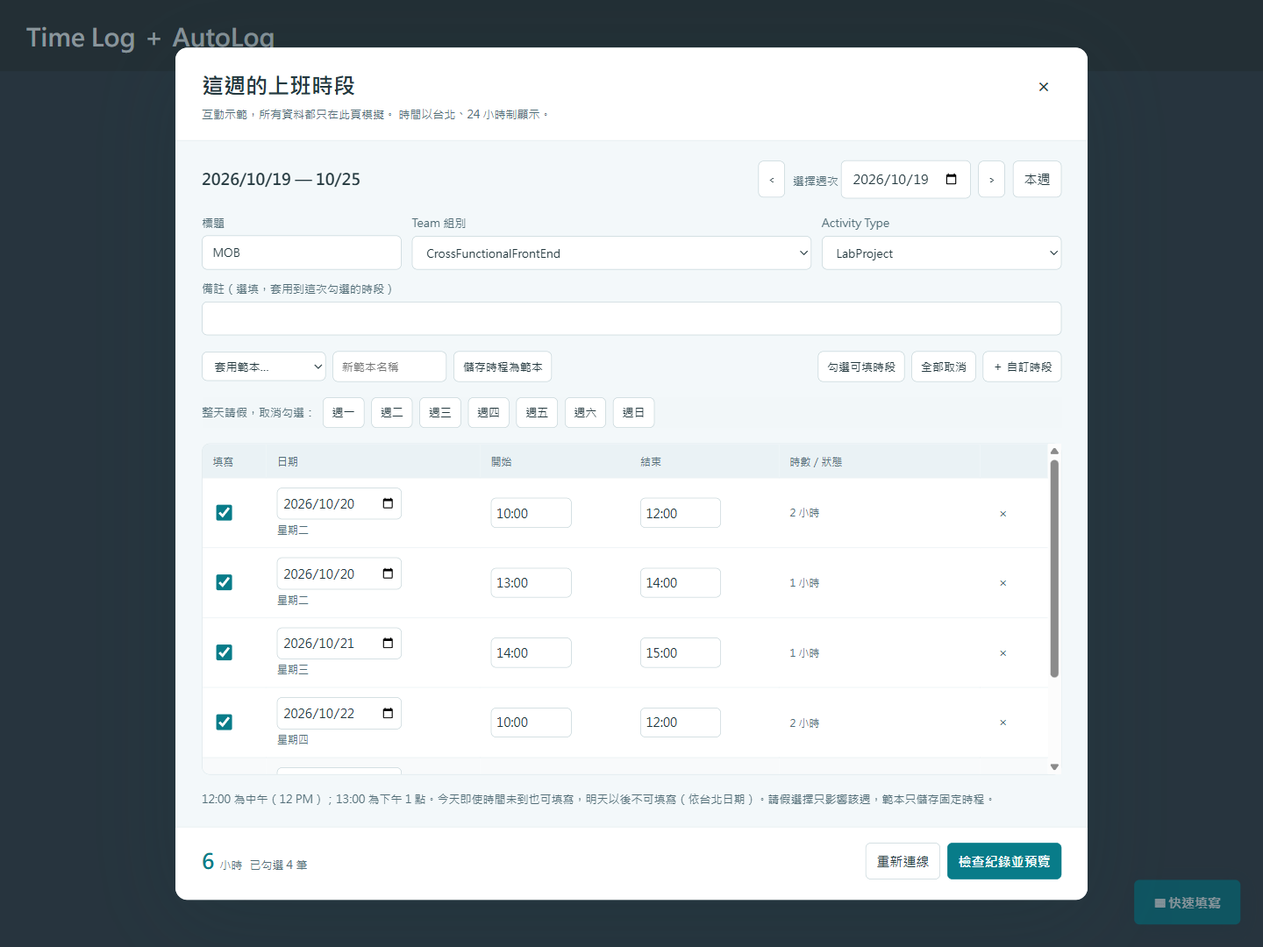
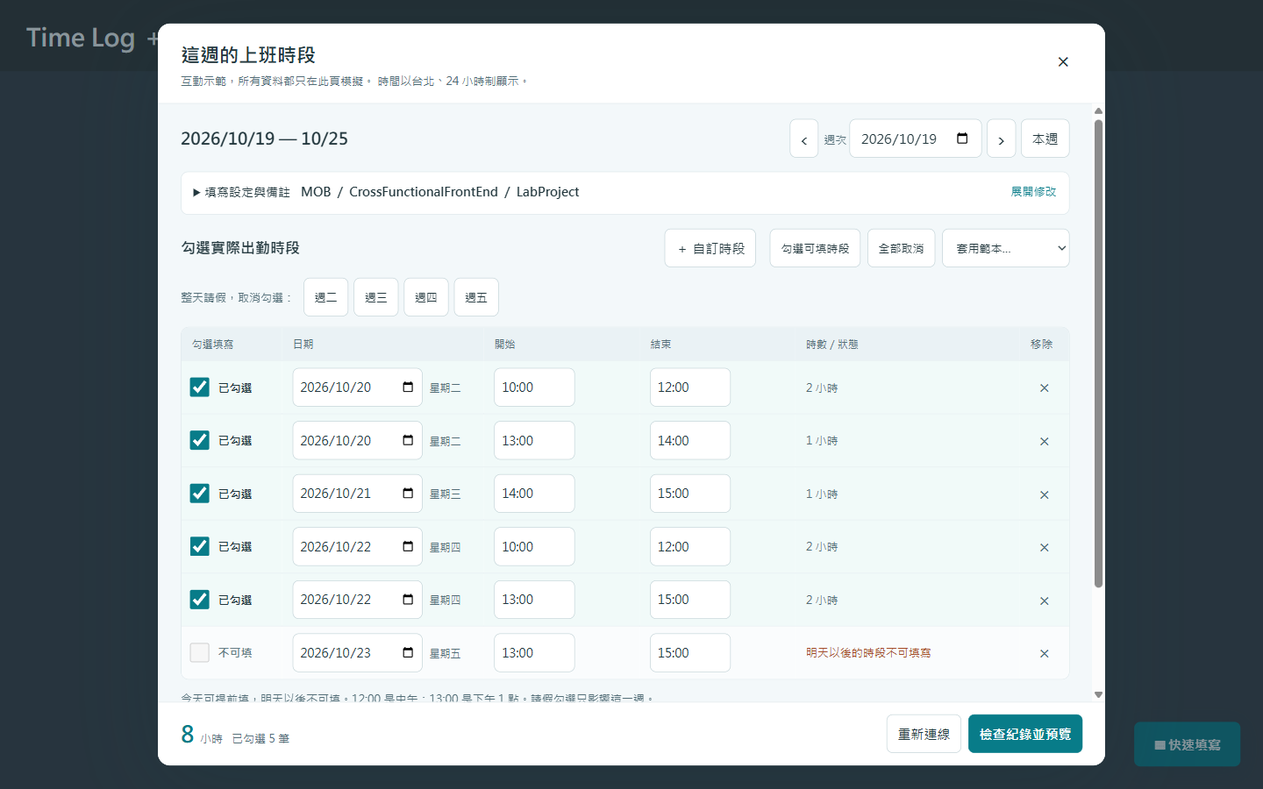
Improve schedule selection layout and preserve edit-to-preview clicks

diff --git a/extension/content.js b/extension/content.js
@@ -15,7 +15,7 @@
   let storageWarning = '';
   function write(key, value) { try { localStorage.setItem(`${namespace()}.${key}`, JSON.stringify(value)); } catch { storageWarning = '瀏覽器無法儲存設定，關閉後可能遺失。'; } }
   let week = C.monday(C.today()), rows = [], teams = [], units = [], review = null, busy = false, message = '', loaded = false;
-  let owner = uid();
+  let owner = uid(), settingsOpen = false, templateOpen = false;
   let settings = read('settings', { title: 'MOB', teamID: '', type: 'LabProject', description: '' });
   let templates = read('templates', {});
   if (!templates || typeof templates !== 'object' || Array.isArray(templates)) templates = {};
@@ -24,28 +24,39 @@
   const style = document.createElement('style');
   style.textContent = `
     :host{all:initial;font-family:"Microsoft JhengHei","Segoe UI",sans-serif;color:#23383e;font-size:15px;line-height:1.5}
-    *{box-sizing:border-box}button,input,select{font:inherit}button{cursor:pointer}button:disabled{cursor:default;opacity:.5}
-    button,input,select{border:1px solid #bbcdd2;border-radius:6px;padding:9px 12px;background:white;color:#23383e}
-    button:hover:not(:disabled){background:#e6f4f5}button:focus-visible,input:focus-visible,select:focus-visible{outline:3px solid #0797a8;outline-offset:2px}
+    *{box-sizing:border-box}button,input,select{font:inherit}button,summary{cursor:pointer}button:disabled{cursor:default;opacity:.5}
+    button,input,select{border:1px solid #bbcdd2;border-radius:7px;padding:9px 12px;background:white;color:#23383e;min-height:44px}
+    button:hover:not(:disabled){background:#e6f4f5}button:focus-visible,input:focus-visible,select:focus-visible,summary:focus-visible{outline:3px solid #0797a8;outline-offset:2px}
     .launch{position:fixed;right:26px;bottom:26px;z-index:2147483646;background:#087c89;color:white;border:0;box-shadow:0 4px 20px #183c4540;padding:14px 22px;font-weight:700}
-    dialog{border:0;border-radius:14px;padding:0;width:min(1040px,calc(100vw - 32px));max-height:90vh;color:inherit;background:#f3f8fa;box-shadow:0 20px 100px #17353d55}
-    dialog[open]{display:flex;flex-direction:column}dialog::backdrop{background:#162d3a80}header{padding:25px 30px 20px;background:white;border-bottom:1px solid #d7e3e7;display:flex;justify-content:space-between;gap:20px;align-items:start;flex-shrink:0}
-    h1{font-size:25px;margin:0 0 4px;font-weight:750}h2{font-size:19px;margin:0 0 10px}p{margin:0}.sub,.hint{color:#526d77;font-size:13px}.x{font-size:22px;line-height:1;padding:8px 12px;border:0}
-    main{padding:22px 30px;display:grid;gap:18px;overflow:auto;min-height:0}.week{display:flex;align-items:center;gap:9px;flex-wrap:wrap}.week strong{font-size:18px;margin-right:auto}.week input{max-width:155px}
-    .settings{display:grid;grid-template-columns:1fr 2fr 1.2fr;gap:12px}label.field{display:grid;gap:5px;font-size:13px;color:#526d77}.field input,.field select{min-width:0;width:100%;color:#23383e}.description{grid-column:1/-1}
-    .toolbar{display:flex;flex-wrap:wrap;gap:8px;align-items:center}.toolbar button,.toolbar select{padding:7px 10px;font-size:13px}.toolbar .spacer{flex:1}.sheet{background:white;border:1px solid #d7e3e7;border-radius:9px;overflow:auto}
-    table{border-collapse:collapse;width:100%;min-width:660px;font-size:14px}th{text-align:left;font-weight:500;font-size:12px;color:#526d77;background:#eaf2f5;padding:10px 12px}td{padding:11px 12px;border-top:1px solid #e3ecef;vertical-align:middle}
-    td input[data-field=start],td input[data-field=end]{width:92px;padding:6px;font-variant-numeric:tabular-nums}td input[type=date]{width:142px;padding:6px}input[type=checkbox]{accent-color:#087c89;width:19px;height:19px;cursor:pointer;vertical-align:middle}.day{display:block;font-size:12px;color:#526d77;margin-top:3px}
-    tr.off{background:#f8fafb;color:#788991}.state{font-size:12px;color:#526d77;max-width:210px}.state.bad{color:#a34a25}.state.good{color:#087c62}.remove{border:0;padding:4px 9px;background:transparent;color:#526d77}
+    dialog{border:0;border-radius:14px;padding:0;margin:auto;width:min(1080px,calc(100vw - 32px));max-width:none;max-height:94dvh;color:inherit;font:inherit;background:#f3f8fa;box-shadow:0 20px 100px #17353d55;overflow:hidden}
+    dialog[open]{display:flex;flex-direction:column}dialog::backdrop{background:#162d3a80}header{padding:19px 26px 16px;background:white;border-bottom:1px solid #d7e3e7;display:flex;justify-content:space-between;gap:16px;align-items:start;flex-shrink:0}
+    h1{font-size:22px;margin:0 0 3px;font-weight:750}h2{font-size:17px;margin:0}p{margin:0}.sub,.hint{color:#526d77;font-size:13px}.x{font-size:24px;line-height:1;padding:8px 12px;border:0;min-width:44px}
+    main{padding:18px 26px;display:block;overflow-y:auto;overflow-x:hidden;min-height:0;scrollbar-gutter:stable}main>*+*{margin-top:16px}
+    .week{display:flex;align-items:center;gap:8px;flex-wrap:wrap}.week strong{font-size:19px;margin-right:auto}.week-controls{display:flex;gap:6px;align-items:center}.week input{width:151px}.week .nav{font-size:22px;padding:3px 12px}.week-label{font-size:13px;color:#526d77}
+    details{border:1px solid #d7e3e7;border-radius:8px;background:white}summary{padding:12px 14px;min-height:48px;font-size:14px;overflow-wrap:anywhere}summary .summary-value{margin-left:12px;font-weight:600}summary .edit-hint{float:right;color:#087c89;font-size:13px;margin-left:10px}.settings{padding:0 14px 16px;display:grid;grid-template-columns:1fr 2fr 1.2fr;gap:12px}label.field{display:grid;gap:5px;font-size:13px;color:#526d77}.field input,.field select{min-width:0;width:100%;color:#23383e}.description{grid-column:1/-1}
+    .schedule-head{display:flex;align-items:center;justify-content:space-between;gap:12px;margin-bottom:12px}.toolbar{display:flex;flex-wrap:wrap;gap:8px;align-items:center;margin-bottom:10px}.toolbar button,.toolbar select{font-size:13px}.toolbar select{max-width:240px}.toolbar .spacer{flex:1}.leave{display:flex;align-items:center;gap:6px;flex-wrap:wrap;margin-bottom:14px}.leave button{font-size:13px;padding:7px 12px}.leave .hint{margin-right:4px}.sheet{background:white;border:1px solid #d7e3e7;border-radius:9px;overflow:hidden;min-height:0}
+    table{border-collapse:collapse;width:100%;font-size:14px}th{text-align:left;font-weight:500;font-size:12px;color:#526d77;background:#eaf2f5;padding:9px 12px}td{padding:8px 12px;border-top:1px solid #e3ecef;vertical-align:middle}tbody tr{cursor:pointer}tbody tr:hover{background:#edf8f8}tbody tr.selected{background:#f1faf9}tbody tr.off{background:#fafcfd;color:#667d86}.select-cell{width:115px;padding:6px 10px}.row-select{display:flex;align-items:center;gap:10px;min-height:48px;cursor:pointer;font-size:13px;font-weight:650}.row-select:has(input:disabled){cursor:default}.row-select input{accent-color:#087c89;width:22px;height:22px;min-height:22px;flex-shrink:0;cursor:inherit;margin:0}.date-cell{width:230px;white-space:nowrap}.day{font-size:12px;color:#526d77;margin-left:8px;display:inline-block}td input[data-field=start],td input[data-field=end]{width:92px;padding:8px;font-variant-numeric:tabular-nums}td input[type=date]{width:148px;padding:7px}.mobile-label{display:none}.state{font-size:13px;color:#526d77;max-width:210px;overflow-wrap:anywhere}.state.bad{color:#a34a25}.state.good{color:#087c62}.remove{border:0;min-width:44px;padding:6px 10px;background:transparent;color:#526d77;font-size:20px}.remove-cell{width:54px;padding:6px}.time-rule{margin-top:12px}.template-tools{margin-top:14px}.template-body{padding:0 14px 14px;display:flex;gap:8px;flex-wrap:wrap}.template-body input{flex:1;min-width:140px}.template-body .hint{width:100%}
     .note{padding:11px 14px;background:#e5f2f5;border-left:3px solid #128f9d;font-size:13px;white-space:pre-line;overflow-wrap:anywhere}.note:empty{display:none}.error{border-color:#bb682f;background:#fff3e8;color:#88431e}
-    footer{padding:18px 30px 23px;display:flex;justify-content:space-between;align-items:center;gap:14px;background:white;border-top:1px solid #d7e3e7;flex-wrap:wrap;flex-shrink:0}.total{font-size:24px;font-weight:750;color:#087c89}.total small{font-size:13px;font-weight:400;color:#526d77}.primary{background:#087c89;color:white;border-color:#087c89;font-weight:650}.primary:hover:not(:disabled){background:#086774}.actions{display:flex;gap:8px}.review{border:2px solid #128f9d;border-radius:8px;padding:16px;background:white}.review ul{padding-left:22px;margin:10px 0}.review li{margin:6px 0}.review .skip{color:#a34a25}.review p{font-size:13px}.review .actions{margin-top:14px;justify-content:flex-end}.count{margin-left:8px;font-size:13px;color:#526d77}
-    .leave{background:#f2f7f9}.template-name{max-width:130px;padding:7px 10px;font-size:13px}
-    @media(max-width:720px){header{padding:20px}main{padding:16px}footer{padding:16px 20px}.settings{grid-template-columns:1fr}.description{grid-column:auto}.week strong{width:100%}dialog{width:calc(100vw - 16px);max-height:95vh}.launch{right:14px;bottom:14px}}
+    footer{padding:14px 26px;display:flex;justify-content:space-between;align-items:center;gap:14px;background:white;border-top:1px solid #d7e3e7;flex-shrink:0}.total{font-size:26px;font-weight:750;color:#087c89}.total small{font-size:13px;font-weight:400;color:#526d77}.primary{background:#087c89;color:white;border-color:#087c89;font-weight:650}.primary:hover:not(:disabled){background:#086774}.actions{display:flex;gap:8px}.review{border:1px solid #128f9d;border-radius:8px;padding:18px;background:white}.review ul{padding-left:22px;margin:14px 0}.review li{padding:8px 0;border-bottom:1px solid #e3ecef;font-variant-numeric:tabular-nums}.review .skip{color:#a34a25}.review p{font-size:13px;margin-top:7px}.count{margin-left:10px;font-size:13px;color:#526d77}
+    @media(min-width:981px){.schedule{display:grid;grid-template-columns:minmax(0,1fr) auto;gap:12px 16px}.schedule-head{grid-column:1;margin:0}.schedule-head .hint{display:none}.toolbar{grid-column:2;margin:0;justify-content:flex-end}.toolbar .spacer{display:none}.toolbar select{max-width:170px}.leave,.sheet,.time-rule,.template-tools,.schedule>.note{grid-column:1/-1;margin:0}}
+    @media(min-width:721px) and (max-width:980px){.date-cell{width:170px}.day{display:block;margin:3px 0 0}.select-cell{width:105px}td,th{padding-left:8px;padding-right:8px}.settings{grid-template-columns:1fr 1fr}.description{grid-column:1/-1}}
+    @media(max-width:720px){header{padding:16px}main{padding:14px}footer{padding:12px 16px;flex-wrap:wrap}.settings{grid-template-columns:1fr}.description{grid-column:auto}.week strong{width:100%}.week-controls{width:100%}.week input{width:145px}.week-label{display:none}dialog{width:calc(100vw - 16px);max-height:96dvh}.launch{right:14px;bottom:14px}summary .summary-value{display:block;margin:5px 0 0}summary .edit-hint{float:none;display:none}.toolbar .spacer{display:none}.toolbar select{max-width:100%;flex:1}.schedule-head{align-items:center}.schedule-head button{font-size:13px;padding:8px}.sheet{border:0;background:transparent;overflow:visible}table,tbody{display:block;width:100%}thead{display:none}tbody tr{display:grid;grid-template-columns:minmax(0,1fr) minmax(0,1fr);gap:10px 14px;position:relative;border:1px solid #d7e3e7;border-radius:9px;padding:12px;margin-bottom:10px;background:white}td{border:0;padding:0;min-width:0}.select-cell{width:auto;grid-column:1/-1;padding:0 44px 0 0}.row-select{min-height:44px}.date-cell{width:auto;grid-column:1/-1;display:flex;gap:10px;align-items:center}.day{display:inline;margin:0}td input[type=date]{width:158px}.time-cell{display:grid;gap:4px}td input[data-field=start],td input[data-field=end]{width:100%;min-width:0}.mobile-label{display:block;font-size:12px;color:#526d77}.state{grid-column:1/-1;max-width:none}.remove-cell{position:absolute;right:6px;top:12px;width:44px}.actions{margin-left:auto}.total{font-size:24px}.count{margin-left:6px}footer .actions{flex-wrap:wrap;justify-content:flex-end}.leave{gap:6px}.leave .hint{width:100%}}
+    @media(max-width:720px){summary .summary-value{white-space:nowrap;overflow:hidden;text-overflow:ellipsis}.week-controls{display:grid;grid-template-columns:44px minmax(0,1fr) 44px auto;gap:4px}.week-controls label{min-width:0}.week-controls input{width:100%;min-width:0;padding:8px 4px}.week-controls .nav{padding:4px;min-width:44px}.week-controls button:last-child{padding:8px}.schedule-head .hint{display:none}}
+    @media(max-width:720px){.schedule{display:flex;flex-direction:column;gap:12px}.schedule-head,.toolbar,.leave,.sheet,.time-rule,.template-tools{margin:0}.schedule-head{order:0}.toolbar{order:1}.sheet{order:2}.leave{order:3}.time-rule{order:4}.template-tools{order:5}.schedule>.note{order:6}.template-body select{width:100%}}
+    @media(max-width:420px){h1{font-size:20px}footer{gap:8px}.actions{gap:6px}.actions button{font-size:13px;padding:8px 10px}.sub{font-size:12px}}
+    @media(max-height:600px){header{padding-top:12px;padding-bottom:10px}header .sub{display:none}footer{padding-top:10px;padding-bottom:10px}main{padding-top:12px;padding-bottom:12px}}
   `;
   root.append(style);
   const launch = document.createElement('button'); launch.className = 'launch'; launch.textContent = '▦ 快速填寫';
   const dialog = document.createElement('dialog'); dialog.setAttribute('aria-label', '每週上班時段快速填寫');
   root.append(launch, dialog);
+  const compactLayout = matchMedia('(max-width:720px)');
+  function positionTemplatePicker() {
+    const picker = dialog.querySelector('#template');
+    const destination = dialog.querySelector(compactLayout.matches ? '.template-body' : '.toolbar');
+    if (picker && destination && picker.parentElement !== destination) destination.append(picker);
+  }
+  compactLayout.addEventListener('change', positionTemplatePicker);
   async function call(op, extra = {}) {
     if (demo) return demo.call(op, { week, rows, settings, ...extra });
     if (uid() !== owner) throw new Error('登入帳號已變更，請重新整理網站');
@@ -60,24 +71,71 @@
   const hours = list => (list.reduce((sum, r) => sum + (C.minutes(r.end) - C.minutes(r.start)), 0) / 60).toLocaleString('zh-TW', { maximumFractionDigits: 2 });
   function render() {
     const previousScroll = dialog.querySelector('main')?.scrollTop || 0;
+    const previousReview = !!dialog.querySelector('.review');
+    const focus = root.activeElement;
+    const focusRow = focus?.closest('[data-id]')?.dataset.id;
+    const focusField = focus?.dataset.field;
+    if (dialog.querySelector('#preferences')) settingsOpen = dialog.querySelector('#preferences').open;
+    if (dialog.querySelector('#templateTools')) templateOpen = dialog.querySelector('#templateTools').open;
     const selected = rows.filter(r => r.selected && !C.validate(r, week));
     const team = teams.find(t => String(t.teamID) === String(settings.teamID));
+    const ready = review?.filter(r => r.ready) || [];
+    const scheduledDays = [1, 2, 3, 4, 5, 6, 0].filter(day => rows.some(r => new Date(r.date + 'T00:00:00Z').getUTCDay() === day));
+    const needsSettings = loaded && (!settings.title?.trim() || !team || !settings.type);
+    const prominentMessage = message.startsWith('錯誤') || message.startsWith('已確認') || busy;
     dialog.innerHTML = `<header><div><h1>這週的上班時段</h1><p class="sub">${demo ? '互動示範，所有資料都只在此頁模擬。' : '依實際出勤勾選，請假時段取消即可。'} 時間以台北、24 小時制顯示。</p></div><button class="x" data-action="close" aria-label="關閉" ${busy ? 'disabled' : ''}>×</button></header>
-      <main><div class="week"><strong>${esc(week.replaceAll('-', '/'))} — ${esc(C.addDays(week, 6).slice(5).replace('-', '/'))}</strong><button data-action="prev" aria-label="上一週">‹</button><label><span class="hint">選擇週次 </span><input aria-label="選擇週次" type="date" id="week" value="${week}"></label><button data-action="next" aria-label="下一週">›</button><button data-action="today">本週</button></div>
-      <div class="settings"><label class="field">標題<input id="title" value="${esc(settings.title)}" maxlength="150"></label><label class="field">Team 組別<select id="team"><option value="">請選擇組別</option>${teams.map(t => `<option value="${esc(t.teamID)}" ${String(t.teamID) === String(settings.teamID) ? 'selected' : ''}>${esc(t.teamName)}</option>`).join('')}</select></label><label class="field">Activity Type<select id="type"><option value="">請選擇類型</option>${typeList().map(a => `<option ${settings.type === a.name ? 'selected' : ''} value="${esc(a.name)}">${esc(a.name)}</option>`).join('')}</select></label><label class="field description">備註（選填，套用到這次勾選的時段）<input id="description" value="${esc(settings.description)}" maxlength="2000"></label></div>
-      <div class="toolbar"><select id="template" aria-label="選擇範本"><option value="">套用範本…</option><option value="__default">我的固定 10 小時</option>${Object.keys(templates).map(name => `<option value="${esc(name)}">${esc(name)}</option>`).join('')}</select><input class="template-name" id="templateName" placeholder="新範本名稱" aria-label="新範本名稱" maxlength="40"><button data-action="saveTemplate">儲存時程為範本</button><span class="spacer"></span><button data-action="all">勾選可填時段</button><button data-action="none">全部取消</button><button data-action="add">＋ 自訂時段</button></div>
-      <div class="toolbar leave"><span class="hint">整天請假，取消勾選：</span>${[1,2,3,4,5,6,0].map(day => `<button data-action="leave" data-day="${day}">週${'日一二三四五六'[day]}</button>`).join('')}</div>
-      <div class="sheet"><table><thead><tr><th>填寫</th><th>日期</th><th>開始</th><th>結束</th><th>時數／狀態</th><th></th></tr></thead><tbody>${rows.map(r => {
+      <main><div class="week"><strong>${esc(week.replaceAll('-', '/'))} — ${esc(C.addDays(week, 6).slice(5).replace('-', '/'))}</strong><div class="week-controls"><button class="nav" data-action="prev" aria-label="上一週">‹</button><label><span class="week-label">週次 </span><input aria-label="選擇週次" type="date" id="week" value="${week}"></label><button class="nav" data-action="next" aria-label="下一週">›</button><button data-action="today">本週</button></div></div>
+      <details id="preferences" ${settingsOpen || needsSettings ? 'open' : ''}><summary><span>填寫設定與備註</span><span class="edit-hint">展開修改</span><span class="summary-value">${esc(settings.title || '請填標題')} ／ ${esc(team?.teamName || '請選擇組別')} ／ ${esc(settings.type || '請選擇類型')}${settings.description ? '（含備註）' : ''}</span></summary><div class="settings"><label class="field">標題<input id="title" value="${esc(settings.title)}" maxlength="150"></label><label class="field">Team 組別<select id="team"><option value="">請選擇組別</option>${teams.map(t => `<option value="${esc(t.teamID)}" ${String(t.teamID) === String(settings.teamID) ? 'selected' : ''}>${esc(t.teamName)}</option>`).join('')}</select></label><label class="field">Activity Type<select id="type"><option value="">請選擇類型</option>${typeList().map(a => `<option ${settings.type === a.name ? 'selected' : ''} value="${esc(a.name)}">${esc(a.name)}</option>`).join('')}</select></label><label class="field description">備註（選填，套用到這次勾選的時段）<input id="description" value="${esc(settings.description)}" maxlength="2000"></label></div></details>
+      ${prominentMessage && message ? `<div class="note ${message.startsWith('錯誤') ? 'error' : ''}" role="status" aria-live="polite">${esc(message)}</div>` : ''}
+      ${review ? `<section class="review" aria-label="送出前預覽"><h2>確認這次要填寫的紀錄</h2><p>${esc(settings.title)} ／ ${esc(team?.teamName)} ／ ${esc(settings.type)}${settings.description ? ` ／ 備註：${esc(settings.description)}` : ''}</p><ul>${review.map(r => `<li class="${r.ready ? '' : 'skip'}">${esc(r.date)} ${esc(weekday(r.date))} ${r.start}–${r.end}　${r.ready ? '可送出' : '略過：' + esc(r.reason)}</li>`).join('')}</ul><p>將新增 ${ready.length} 筆，共 ${hours(ready)} 小時。送出時會再次查核現有紀錄。</p></section>` : `
+      <section class="schedule" aria-label="時段選擇"><div class="schedule-head"><div><h2>勾選實際出勤時段</h2><p class="hint">可點勾選區或整列空白處切換。</p></div><button data-action="add">＋ 自訂時段</button></div>
+      <div class="toolbar"><button data-action="all">勾選可填時段</button><button data-action="none">全部取消</button><span class="spacer"></span><select id="template" aria-label="選擇範本"><option value="">套用範本…</option><option value="__default">我的固定 10 小時</option>${Object.keys(templates).map(name => `<option value="${esc(name)}">${esc(name)}</option>`).join('')}</select></div>
+      <div class="leave"><span class="hint">整天請假，取消勾選：</span>${[1,2,3,4,5,6,0].map(day => `<button data-action="leave" data-day="${day}" ${scheduledDays.includes(day) ? '' : 'hidden'}>週${'日一二三四五六'[day]}</button>`).join('')}</div>
+      <div class="sheet"><table aria-label="每週出勤時段"><thead><tr><th scope="col">勾選填寫</th><th scope="col">日期</th><th scope="col">開始</th><th scope="col">結束</th><th scope="col">時數／狀態</th><th scope="col"><span class="hint">移除</span></th></tr></thead><tbody>${rows.map(r => {
         const invalid = C.validate(r, week); const done = r.result === '已送出並確認';
-        return `<tr class="${!r.selected ? 'off' : ''}" data-id="${esc(r.id)}"><td><input aria-label="選取 ${esc(r.date)} ${esc(r.start)}" data-field="selected" type="checkbox" ${r.selected ? 'checked' : ''} ${invalid || done ? 'disabled' : ''}></td><td><input aria-label="日期" data-field="date" type="date" min="${week}" max="${C.addDays(week, 6)}" value="${esc(r.date)}"><span class="day">${esc(weekday(r.date))}</span></td><td><input aria-label="開始時間" data-field="start" type="text" inputmode="numeric" placeholder="HH:mm" maxlength="5" value="${esc(r.start)}"></td><td><input aria-label="結束時間" data-field="end" type="text" inputmode="numeric" placeholder="HH:mm" maxlength="5" value="${esc(r.end)}"></td><td class="state ${r.result ? done ? 'good' : 'bad' : invalid ? 'bad' : ''}">${esc(r.result || invalid || `${hours([r])} 小時`)}</td><td><button class="remove" data-action="remove" aria-label="移除此時段">×</button></td></tr>`;
+        return `<tr class="${r.selected && !invalid ? 'selected' : 'off'}" data-id="${esc(r.id)}"><td class="select-cell"><label class="row-select"><input aria-label="選取 ${esc(r.date)} ${esc(r.start)}" aria-describedby="state-${esc(r.id)}" data-field="selected" type="checkbox" ${r.selected ? 'checked' : ''} ${invalid || done ? 'disabled' : ''}><span>${done ? '已完成' : invalid ? '不可填' : r.selected ? '已勾選' : '未勾選'}</span></label></td><td class="date-cell"><input aria-label="日期" data-field="date" type="date" min="${week}" max="${C.addDays(week, 6)}" value="${esc(r.date)}"><span class="day">${esc(weekday(r.date))}</span></td><td class="time-cell"><span class="mobile-label">開始時間</span><input aria-label="開始時間" data-field="start" type="text" inputmode="numeric" placeholder="HH:mm" maxlength="5" value="${esc(r.start)}"></td><td class="time-cell"><span class="mobile-label">結束時間</span><input aria-label="結束時間" data-field="end" type="text" inputmode="numeric" placeholder="HH:mm" maxlength="5" value="${esc(r.end)}"></td><td id="state-${esc(r.id)}" class="state ${r.result ? done ? 'good' : 'bad' : invalid ? 'bad' : ''}">${esc(r.result || invalid || `${hours([r])} 小時`)}</td><td class="remove-cell"><button class="remove" data-action="remove" aria-label="移除此時段">×</button></td></tr>`;
       }).join('')}</tbody></table></div>
-      <p class="hint">12:00 為中午（12 PM）；13:00 為下午 1 點。今天即使時間未到也可填寫，明天以後不可填寫（依台北日期）。請假選擇只影響該週，範本只儲存固定時程。</p>
-      <div class="note ${message.startsWith('錯誤') ? 'error' : ''}" role="status" aria-live="polite">${esc(message || storageWarning)}</div>
-      ${review ? `<section class="review"><h2>確認這次要填寫的紀錄</h2><p>${esc(settings.title)} ／ ${esc(team?.teamName)} ／ ${esc(settings.type)}${settings.description ? ` ／ 備註：${esc(settings.description)}` : ''}</p><ul>${review.map(r => `<li class="${r.ready ? '' : 'skip'}">${esc(r.date)} ${esc(weekday(r.date))} ${r.start}–${r.end}　${r.ready ? '可送出' : '略過：' + esc(r.reason)}</li>`).join('')}</ul><p>將新增 ${review.filter(r => r.ready).length} 筆，共 ${hours(review.filter(r => r.ready))} 小時。送出時會再次查核現有紀錄。</p><div class="actions"><button data-action="back">返回修改</button><button class="primary" data-action="submit" ${!review.some(r => r.ready) ? 'disabled' : ''}>確認送出 ${review.filter(r => r.ready).length} 筆</button></div></section>` : ''}
-      </main><footer><div><span class="total">${hours(selected)} <small>小時</small></span><span class="count">已勾選 ${selected.length} 筆</span></div><div class="actions"><button data-action="reload">重新連線</button><button class="primary" data-action="review" ${!loaded || !selected.length || !settings.title?.trim() || !settings.teamID || !settings.type ? 'disabled' : ''}>${busy ? '處理中…' : '檢查紀錄並預覽'}</button></div></footer>`;
-    dialog.querySelector('main').scrollTop = previousScroll;
-    if (review && !busy) dialog.querySelector('.review').scrollIntoView({ block: 'nearest' });
+      ${rows.length ? '' : '<p class="note">這週還沒有時段，可套用固定範本或新增自訂時段。</p>'}
+      <p class="hint time-rule">今天可提前填，明天以後不可填。12:00 是中午；13:00 是下午 1 點。請假勾選只影響這一週。</p>
+      <details id="templateTools" class="template-tools" ${templateOpen ? 'open' : ''}><summary>套用或儲存時程範本</summary><div class="template-body"><input id="templateName" placeholder="新範本名稱" aria-label="新範本名稱" maxlength="40"><button data-action="saveTemplate">儲存時程為範本</button><p class="hint">儲存上方所有時段，不包含當週的請假勾選。</p></div></details></section>`}
+      ${!prominentMessage && (message || storageWarning) ? `<div class="note" role="status" aria-live="polite">${esc(message || storageWarning)}</div>` : ''}
+      </main><footer><div><span class="total">${hours(review ? ready : selected)} <small>小時</small></span><span class="count">${review ? '將新增' : '已勾選'} ${review ? ready.length : selected.length} 筆</span></div><div class="actions">${review ? `<button data-action="back">返回修改</button><button class="primary" data-action="submit" ${!ready.length ? 'disabled' : ''}>${busy ? '處理中…' : `確認送出 ${ready.length} 筆`}</button>` : `<button data-action="reload">重新連線</button><button class="primary" data-action="review" ${!loaded || !selected.length || !settings.title?.trim() || !settings.teamID || !settings.type ? 'disabled' : ''}>${busy ? '處理中…' : '檢查紀錄並預覽'}</button>`}</div></footer>`;
+    positionTemplatePicker();
+    dialog.querySelector('main').scrollTop = previousReview !== !!review ? 0 : previousScroll;
     if (busy) dialog.querySelectorAll('button,input,select').forEach(el => el.disabled = true);
+    else if (focusRow && focusField) {
+      const row = Array.from(dialog.querySelectorAll('[data-id]')).find(el => el.dataset.id === focusRow);
+      const input = row?.querySelector(`[data-field="${focusField}"]`);
+      if (input && !input.disabled) input.focus({ preventScroll: true });
+    }
+  }
+  // Keep inputs and action buttons mounted when an edit blurs. Replacing the
+  // dialog here would swallow the user's following click on Preview or Add.
+  function refreshFeedback() {
+    for (const tr of dialog.querySelectorAll('tbody tr')) {
+      const row = rows.find(r => r.id === tr.dataset.id);
+      const invalid = C.validate(row, week), done = row.result === '已送出並確認';
+      tr.className = row.selected && !invalid ? 'selected' : 'off';
+      const checkbox = tr.querySelector('[data-field="selected"]');
+      checkbox.checked = row.selected;
+      checkbox.disabled = !!invalid || done;
+      checkbox.setAttribute('aria-label', `選取 ${row.date} ${row.start}`);
+      tr.querySelector('.row-select span').textContent = done ? '已完成' : invalid ? '不可填' : row.selected ? '已勾選' : '未勾選';
+      tr.querySelector('.day').textContent = C.validDate(row.date) ? weekday(row.date) : '請選擇日期';
+      const state = tr.querySelector('.state');
+      state.textContent = row.result || invalid || `${hours([row])} 小時`;
+      state.className = `state ${row.result ? done ? 'good' : 'bad' : invalid ? 'bad' : ''}`;
+    }
+    for (const button of dialog.querySelectorAll('[data-action="leave"]')) {
+      button.hidden = !rows.some(row => new Date(row.date + 'T00:00:00Z').getUTCDay() === Number(button.dataset.day));
+    }
+    const team = teams.find(t => String(t.teamID) === String(settings.teamID));
+    dialog.querySelector('.summary-value').textContent = `${settings.title || '請填標題'} ／ ${team?.teamName || '請選擇組別'} ／ ${settings.type || '請選擇類型'}${settings.description ? '（含備註）' : ''}`;
+    const selected = rows.filter(r => r.selected && !C.validate(r, week));
+    dialog.querySelector('.total').innerHTML = `${hours(selected)} <small>小時</small>`;
+    dialog.querySelector('.count').textContent = `已勾選 ${selected.length} 筆`;
+    const previewButton = dialog.querySelector('[data-action="review"]');
+    if (previewButton) previewButton.disabled = !loaded || !selected.length || !settings.title?.trim() || !settings.teamID || !settings.type;
   }
   async function connect() {
     busy = true; message = '正在確認登入、讀取組別與類型…'; render();
@@ -106,10 +164,19 @@
     else if (el.id === 'template' && el.value) {
       try { rows = C.expand(C.template(el.value === '__default' ? C.defaults : templates[el.value]), week); message = '已套用範本，請依這週實際出勤勾選。'; } catch (error) { message = '錯誤：' + error.message; }
     } else return;
-    invalidate(); render();
+    const keepMounted = !dialog.querySelector('.review') && ((tr && el.dataset.field !== 'selected') || ['title', 'description'].includes(el.id));
+    invalidate();
+    if (keepMounted) refreshFeedback(); else render();
   });
   dialog.addEventListener('click', async event => {
-    const button = event.target.closest('button[data-action]'); if (!button || busy) return;
+    if (busy) { event.preventDefault(); return; }
+    const clickedRow = event.target.closest('[data-id]');
+    if (clickedRow && !event.target.closest('button,input,label,select,.time-cell,.date-cell')) {
+      const checkbox = clickedRow.querySelector('input[type="checkbox"]');
+      if (!checkbox.disabled) checkbox.click();
+      return;
+    }
+    const button = event.target.closest('button[data-action]'); if (!button) return;
     const action = button.dataset.action;
     if (action === 'close') { dialog.close(); launch.focus(); return; }
     if (action === 'reload') { review = null; await connect(); return; }

diff --git a/README.md b/README.md
@@ -18,6 +18,13 @@
 4. 點「檢查紀錄並預覽」，確認新增明細與總時數，再按「確認送出」。
 5. 每筆新增後會再讀取紀錄確認。回到學校左側 **Personal → History**，設定日期範圍查閱；原頁沒有更新時重新整理。
 
+## 介面操作
+
+- 上方「填寫設定與備註」預設顯示目前設定摘要，點開即可改標題、組別、類型與備註；缺少必要設定時會自動展開。
+- 勾選區放大為至少 44px 高，也可以點每列的狀態或空白處切換；點日期、時間或移除按鈕時不會誤切換。
+- 清單完整展開，只捲動面板的主內容，底部總時數與操作始終可見。預覽時底部會改為「返回修改／確認送出」。
+- 窄螢幕將每筆時段改成直向排列，不必左右滑動。整天取消與範本管理放在清單下方，讓勾選優先顯示；範本選單可從「套用或儲存時程範本」展開。
+
 固定時程共六筆、十小時：
 
 | 星期 | 時段 | 小時 |
@@ -31,7 +38,7 @@
 
 ## 自訂與範本
 
-- 調整時段後輸入範本名稱，按「儲存時程為範本」。同名會覆寫。範本儲存所有列出的固定時段，不儲存當週請假勾選，也不儲存 Team／標題。
+- 調整時段後展開「套用或儲存時程範本」，輸入名稱，按「儲存時程為範本」。同名會覆寫。範本儲存所有列出的固定時段，不儲存當週請假勾選，也不儲存 Team／標題。
 - 從「套用範本」選取名稱即可重新產生當週日期；會取代當週目前時段與勾選。「我的固定 10 小時」可還原原始時程。
 - 當週時段、勾選、範本與上次組別設定按帳號存於此瀏覽器的網站本機儲存區。換週會保留各週草稿。清除網站資料會移除這些設定。
 

diff --git a/DESIGN.md b/DESIGN.md
@@ -1,0 +1,13 @@
+# AutoLog 面板設計
+
+主要工作是核對六筆上班時段並排除請假，因此時段清單應最先可見；已記住的標題、組別、類型與範本管理可展開修改。
+
+- 色彩：文字 `#23383e`、次要文字 `#526d77`、面板底 `#f3f8fa`、紙白 `#ffffff`、勾選與主要操作 `#087c89`、警示 `#a34a25`。沿用原學校網站的青綠操作色。
+- 字體：Microsoft JhengHei／Segoe UI，主要內容 15px，時段採等寬數字，標題 22px。
+- 配置：左對齊的週次與可展開設定摘要 → 快速選取與整天取消 → 完整時段清單 → 固定底部總時數與下一步。
+- 捲動：只有主內容垂直捲動。清單隨內容長高，不分配會壓縮成單列的高度；底部總時數與確認操作保持可見。
+- 操作：每筆勾選至少 44px 點擊範圍，也可點列內空白處切換。修改日期或時間時不切換勾選。手機將每筆轉為直向排列，避免左右滑動才能看見時間或狀態。
+- 窄螢幕讓清單優先，將整天取消與範本管理放在清單之後；長設定摘要單行省略，展開後可閱讀完整內容。
+- 預覽：固定底部切換成「返回修改／確認送出」，清楚區分勾選與送出階段。
+
+檢視原配置後，移除佔據半個視窗的常駐設定與範本名稱欄；保留清楚的設定摘要，並直接展示實際時段。這次的重點是擴大可核對清單的空間與點擊範圍。

diff --git a/TESTING.md b/TESTING.md
@@ -9,6 +9,10 @@
 - 1440×1080 桌面、390×844 窄螢幕檢查，確認對話框與固定底部操作區可見；窄螢幕可預覽星期五請假後的 5 筆 8 小時。
 - Windows ZIP 打包完成。
 - v1.0.1 面板操作確認：當天 `23:00–23:59` 可勾選，改成明天後禁止勾選；此規則同時套用於預覽與背景送出驗證。
+- v1.1.0：桌面清單六筆總高度約 401px，沒有清單內部的垂直捲動；在 1440×900 視窗可直接核對六筆。
+- v1.1.0：實際檢查 1440×900、1024×600、768×1024、390×844、320×568，主內容沒有水平溢出，底部操作仍在視窗內；清單保持完整高度，較矮視窗透過主內容捲動查看。
+- v1.1.0：實際點擊 48px 桌面勾選區與列內狀態、用空白鍵連續切換且保留焦點；驗證整天取消、設定摘要、範本儲存與套用、預覽固定底部確認、模擬六筆送出與再次填寫去重。
+- v1.1.0：修改時間後直接點一次預覽可成功，確認預覽包含更新後時間，避免欄位失焦時重繪吃掉下一次點擊。
 
 截圖：`preview/desktop.png`、`preview/mobile.png`。
 

diff --git a/CHANGELOG.md b/CHANGELOG.md
@@ -1,0 +1,18 @@
+# 版本紀錄
+
+## 1.1.0
+
+- 時段清單完整展開，取消清單內部的垂直捲軸，避免視窗高度不足時被壓成單列。
+- 已記住的填寫設定與範本管理可收合；桌面將快速操作放在同一行，讓時段優先顯示。
+- 勾選區至少 44px 高，支援點列內空白處與鍵盤空白鍵切換，切換後保留焦點。
+- 窄螢幕將每筆時段直向排列，減少水平滑動；底部總時數與送出操作固定可見。
+- 預覽與勾選分成不同畫面，底部清楚切換「返回修改／確認送出」。
+- 修正修改時間後第一次點預覽沒有反應的問題。
+
+## 1.0.1
+
+- 今天與過去的時段可填寫，今天即使時間未到也可填；依台北日期擋住明天以後的時段。
+
+## 1.0.0
+
+- 固定六筆十小時週時程、請假排除、自訂時段、時程範本、送出前預覽與重複／重疊檢查。
